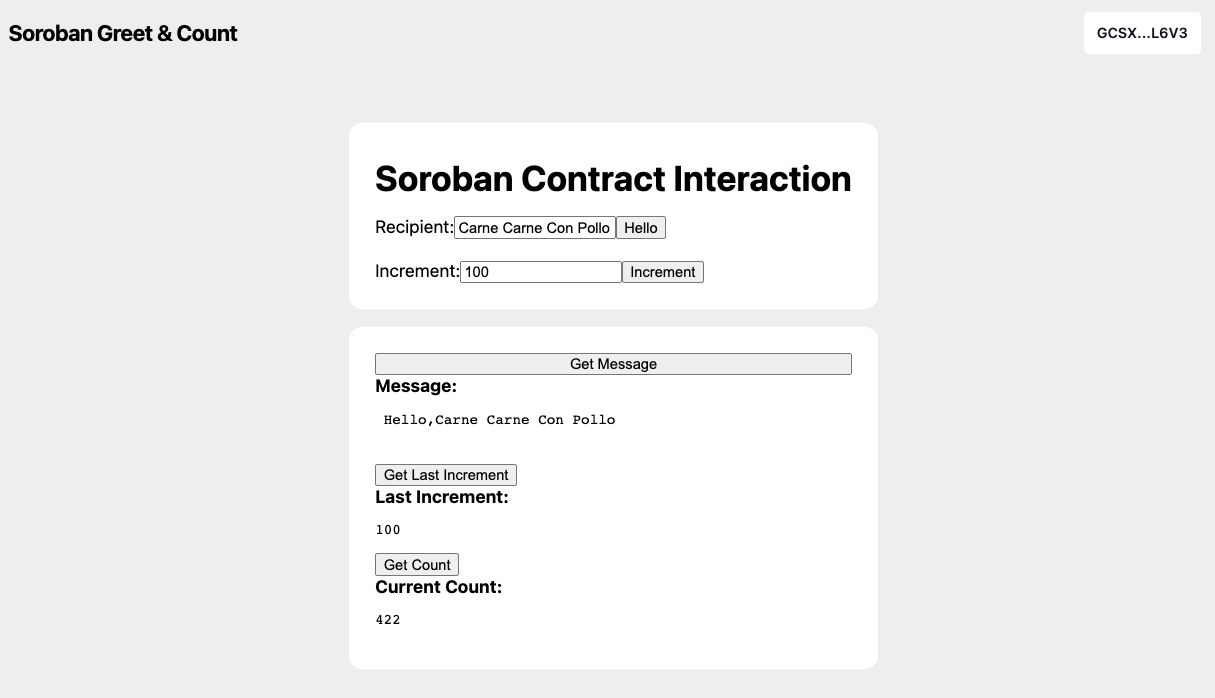
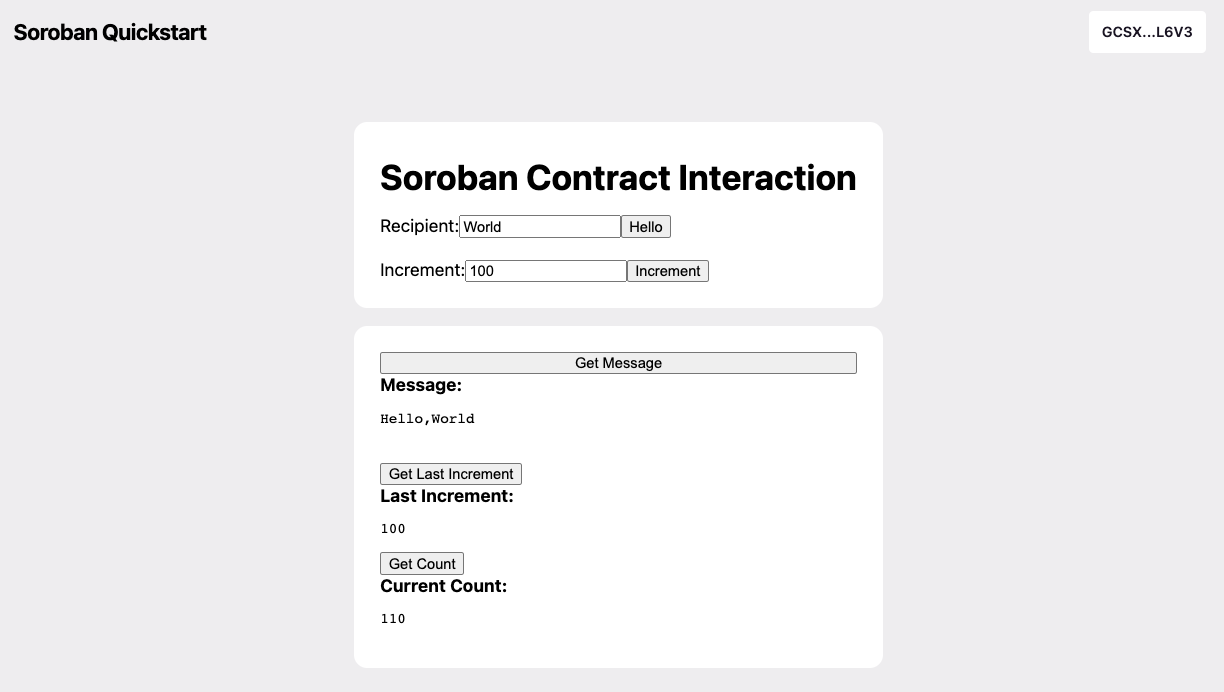
update readme

diff --git a/components/organisms/hello-world/index.tsx b/components/organisms/hello-world/index.tsx
@@ -2,7 +2,7 @@ import React, { FunctionComponent, useState, useEffect } from "react";
 import { Card } from "../../atoms";
 import * as helloWorldContract from "hello-world-contract";
 import { useAccount } from "../../../hooks";
-import styles from "./style.module.css";
+// import styles from "./style.module.css";
 
 const HelloWorld = () => {
   const [to, setTo] = useState("");
@@ -100,7 +100,7 @@ const HelloWorld = () => {
           <div>
             <strong>Message:</strong>
             <br />
-            <pre>{` ${message}`}</pre>
+            <pre>{`${message}`}</pre>
           </div>
           <br />
           {/* Next section here */}

diff --git a/pages/index.tsx b/pages/index.tsx
@@ -21,7 +21,7 @@ const Home: NextPage = () => {
       </Head>
 
       <header className={styles.header}>
-        <h3>Soroban Greet & Count</h3>
+        <h3>Soroban Quickstart</h3>
         <WalletData />
       </header>
       <main className={styles.main}>

diff --git a/README.md b/README.md
@@ -1,4 +1,4 @@
-# Soroban Quickstart Dapp Example
+# Soroban Quickstart Dapp
 
 ![Screenshot of the Example Dapp](screenshot.png)
 
